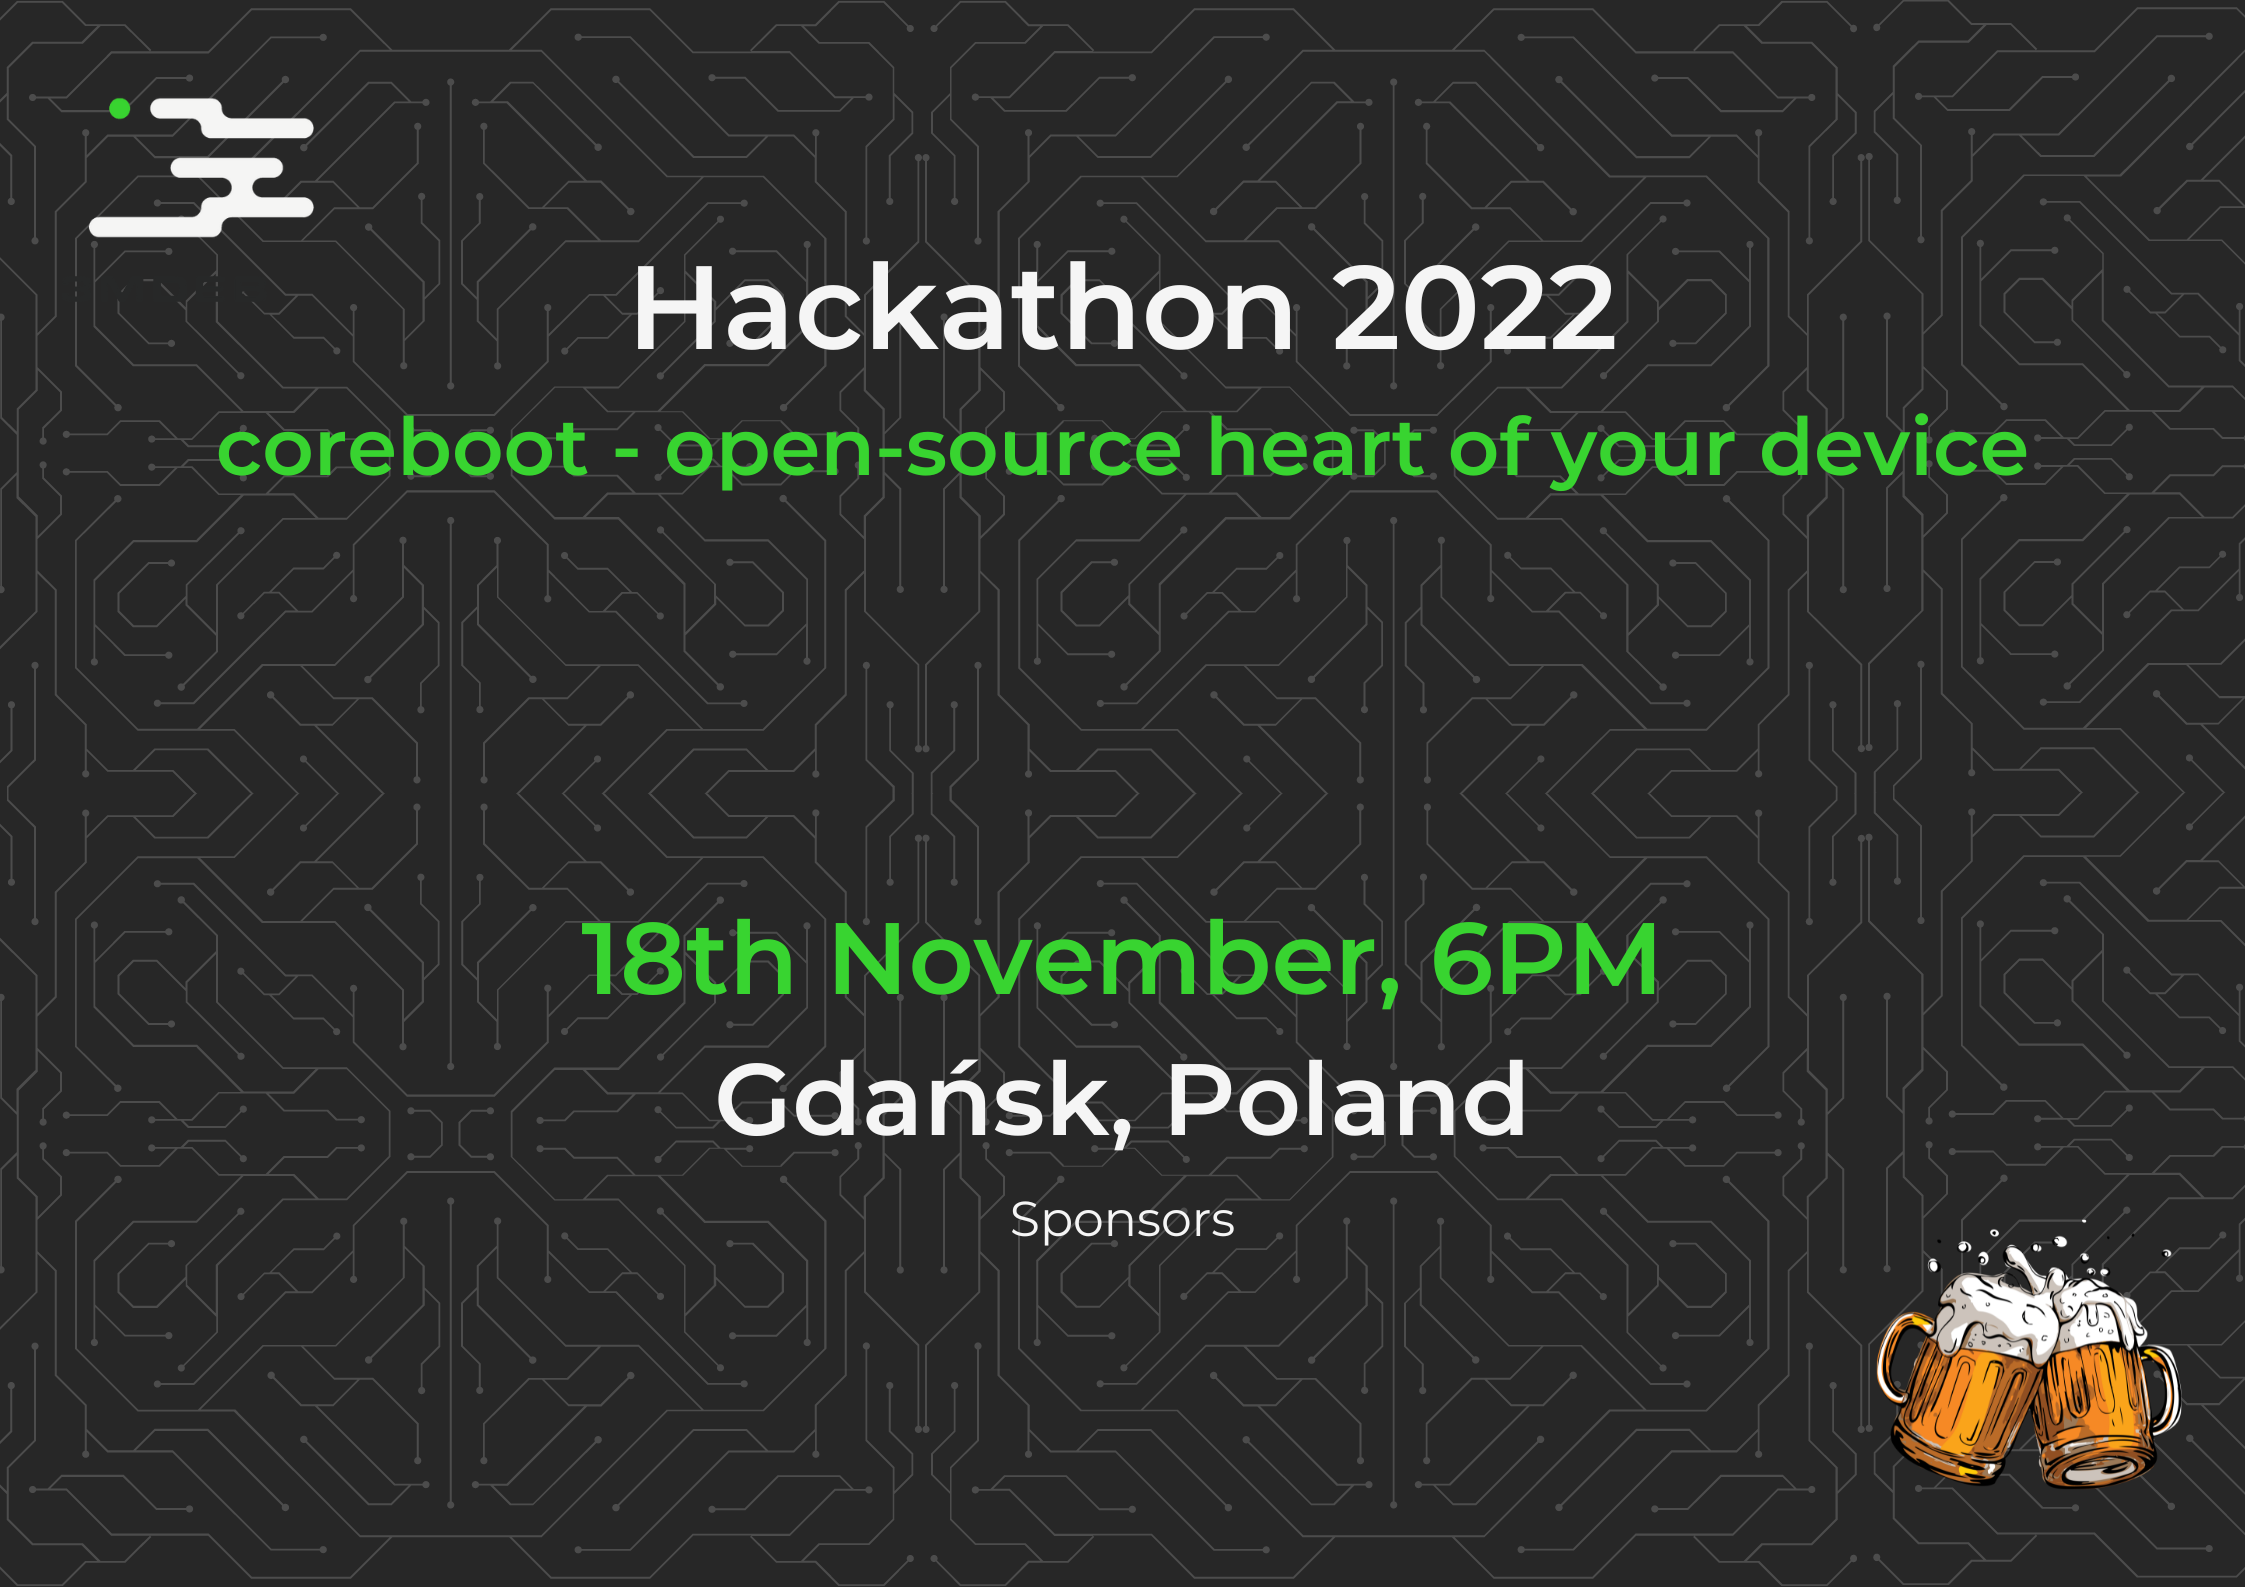
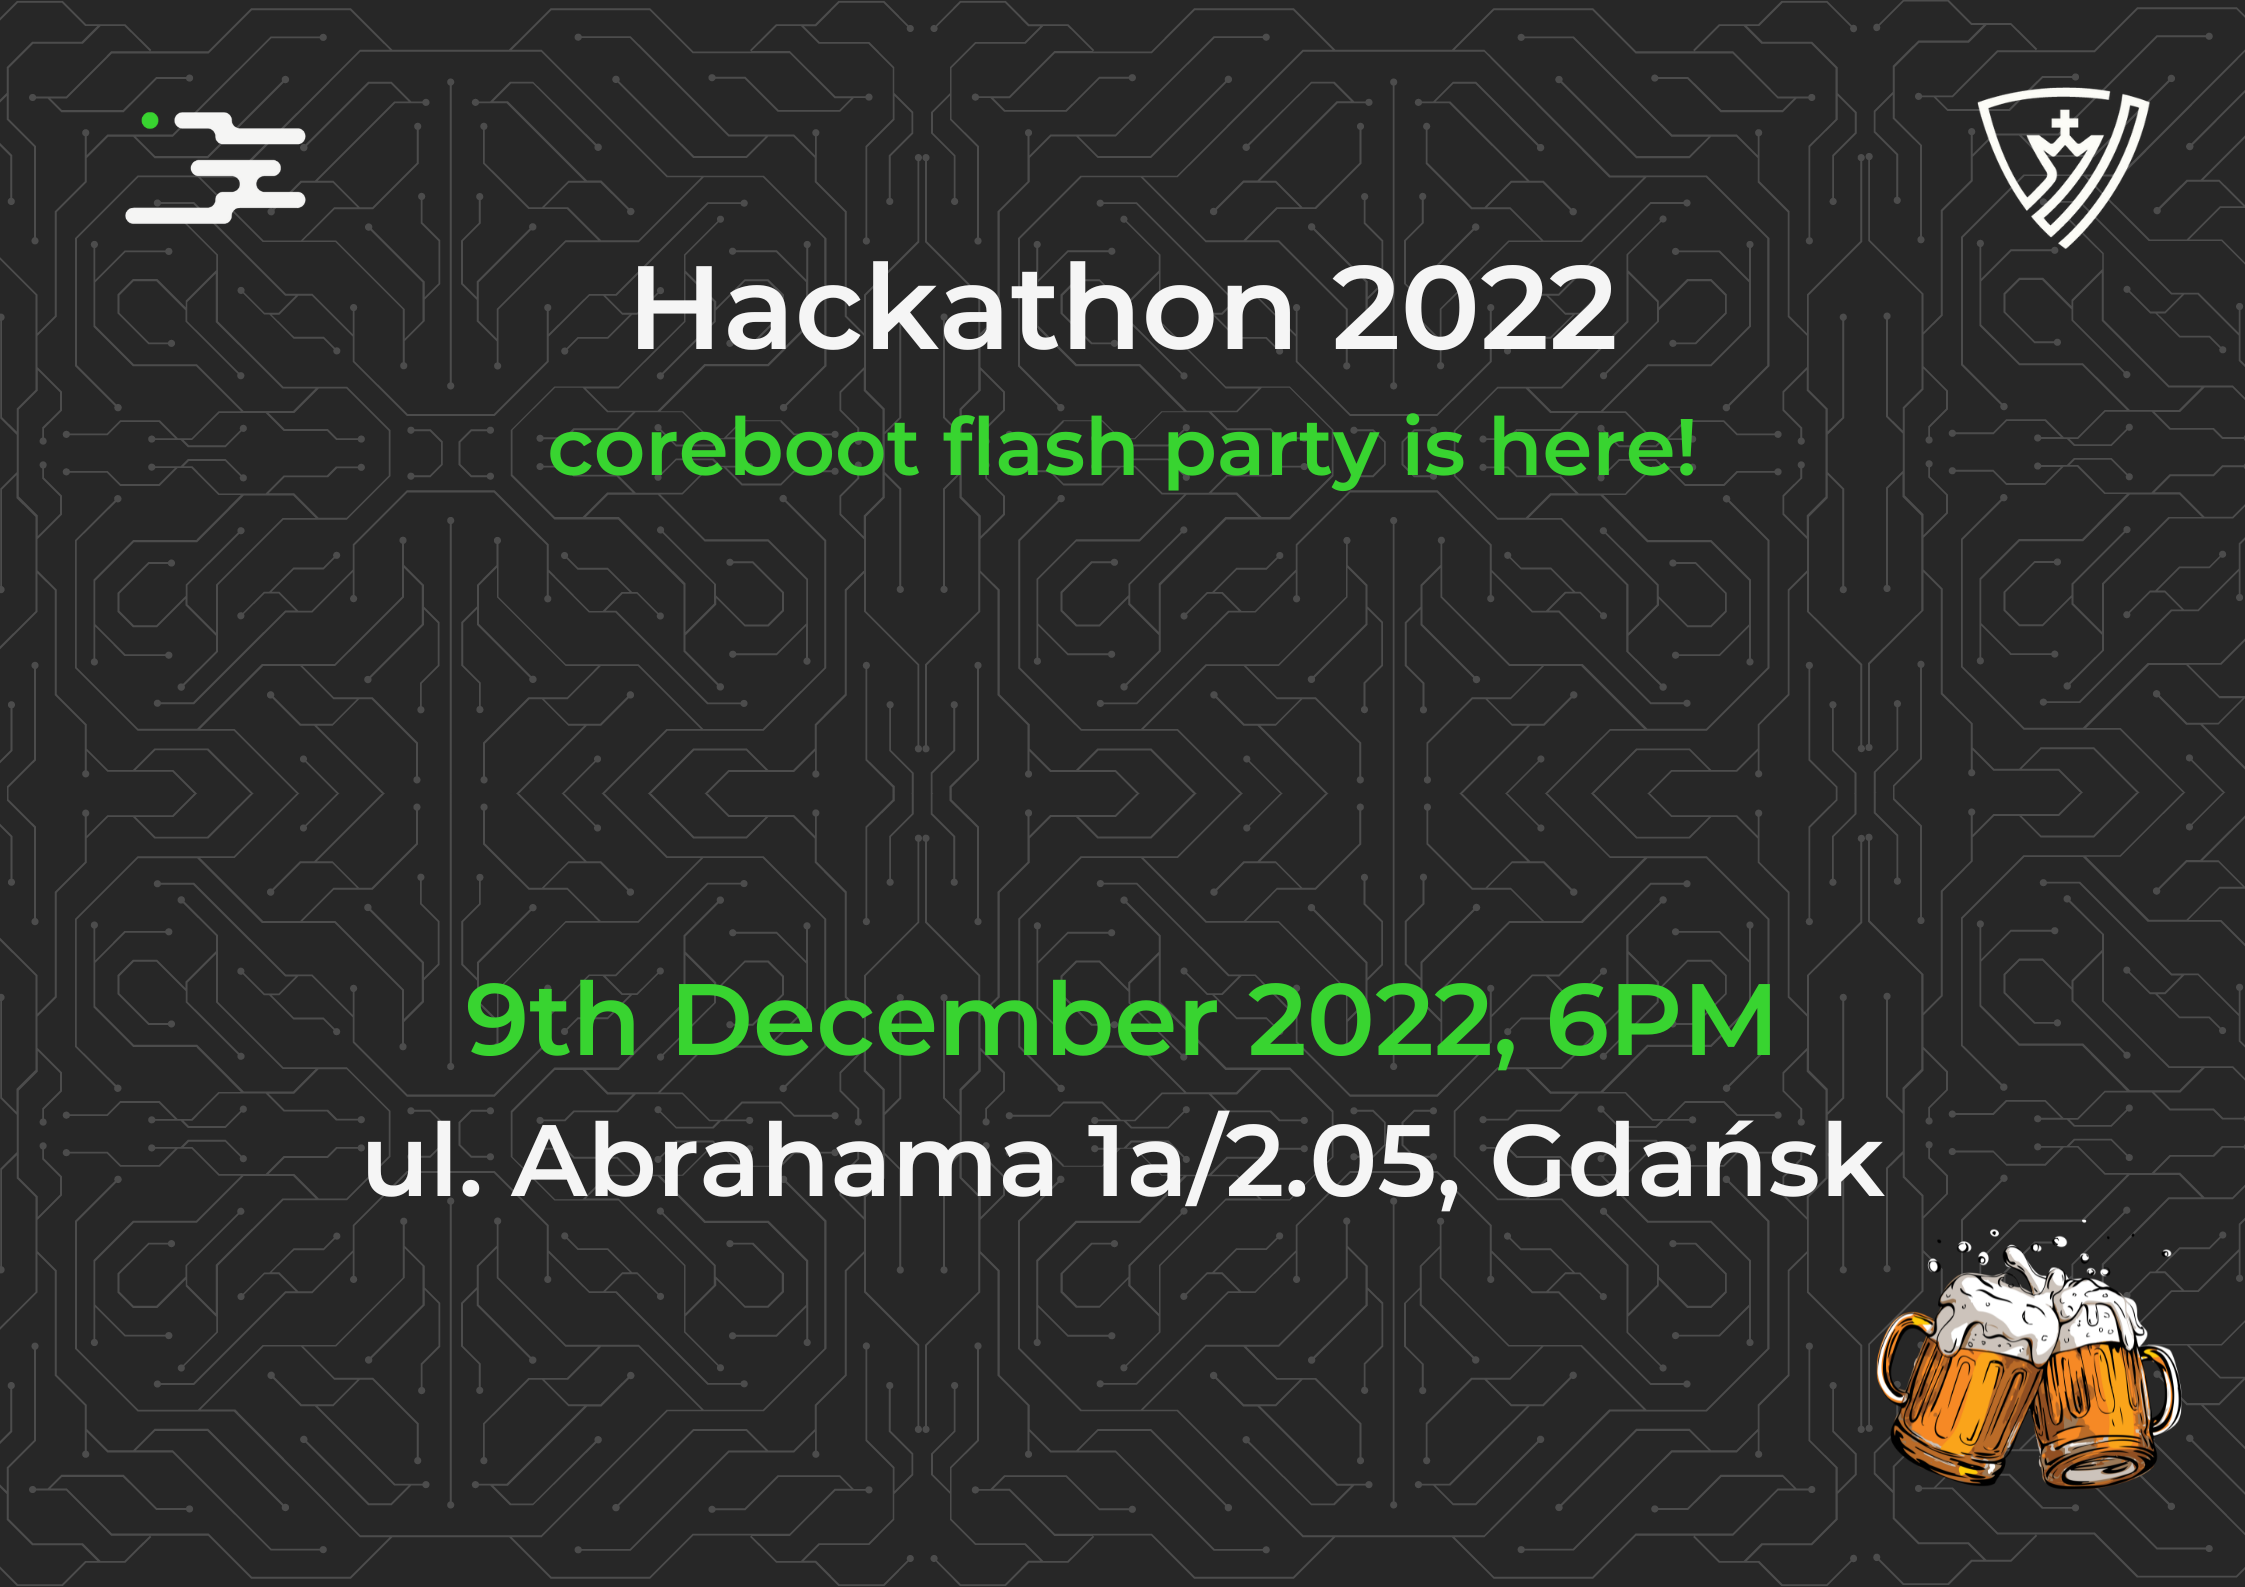
hackathon: Change date, update details

diff --git a/docs/index.md b/docs/index.md
@@ -9,9 +9,18 @@ hide:
   </p>
 <br>
 
-<h1 align="center" style="color: #38d430;">
-  <b>coreboot flash party is here!</b>
-</h1>
+<h2 align="center" style="margin-top: 0px;">
+  <b>Calendar Invites:</b>
+  <a href="static/hackathon2022.ics">iCal</a> /
+  <a href="
+https://calendar.google.com/calendar/event?action=TEMPLATE&tmeid=NWlhNGowZGh1c2MzYzgzOGkyOGkzcHRjZGMgZXZlbnRzQDNtZGViLmNvbQ&tmsrc=events%403mdeb.com" target="_blank">Google</a>
+</h2>
+<!--
+<h2 align="left" style="margin-top: 0px;">
+  <b>Schedule:</b>
+  <a href="https://cfp.3mdeb.com/" target="_blank">Hackathon Schedule</a>
+</h2>
+-->
 
 ---
 
@@ -67,19 +76,6 @@ hackathon attendees with the process of coreboot initial deployment for the
 selected platforms. For this part of the event, 3mdeb will provide the
 necessary hardware and tools.
 
----
-
-<h2 align="left" style="margin-top: 0px;">
-  <b>Calendar Invites:</b>
-  <a href="static/hackathon2022.ics">iCal</a> /
-  <a href="#" target="_blank">Google</a>
-</h2>
-<!--
-<h2 align="left" style="margin-top: 0px;">
-  <b>Schedule:</b>
-  <a href="https://cfp.3mdeb.com/" target="_blank">Hackathon Schedule</a>
-</h2>
--->
 ---
 
 <h1 align="left" style="margin-top: 0px;">
